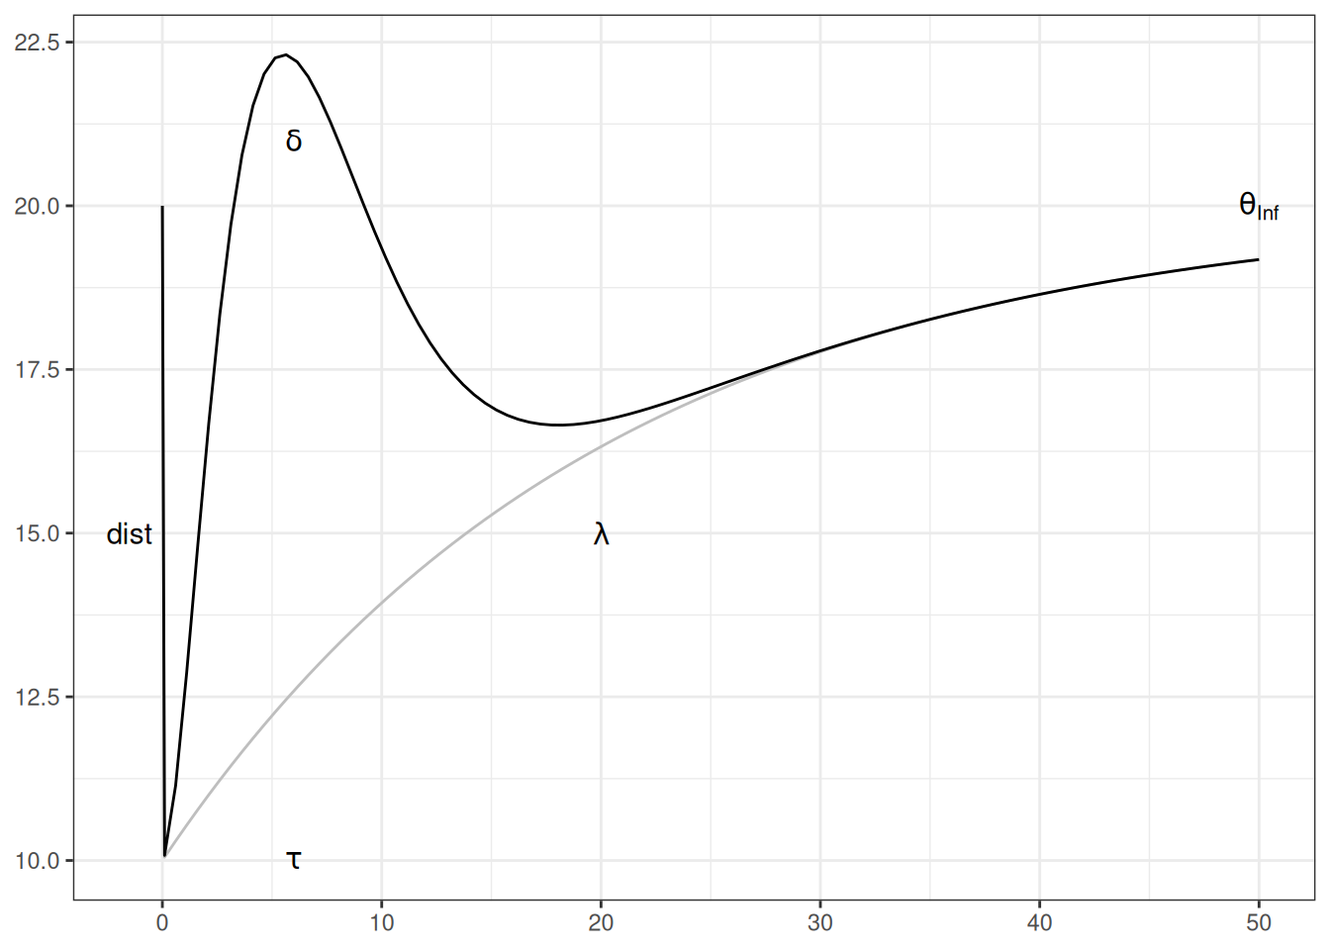
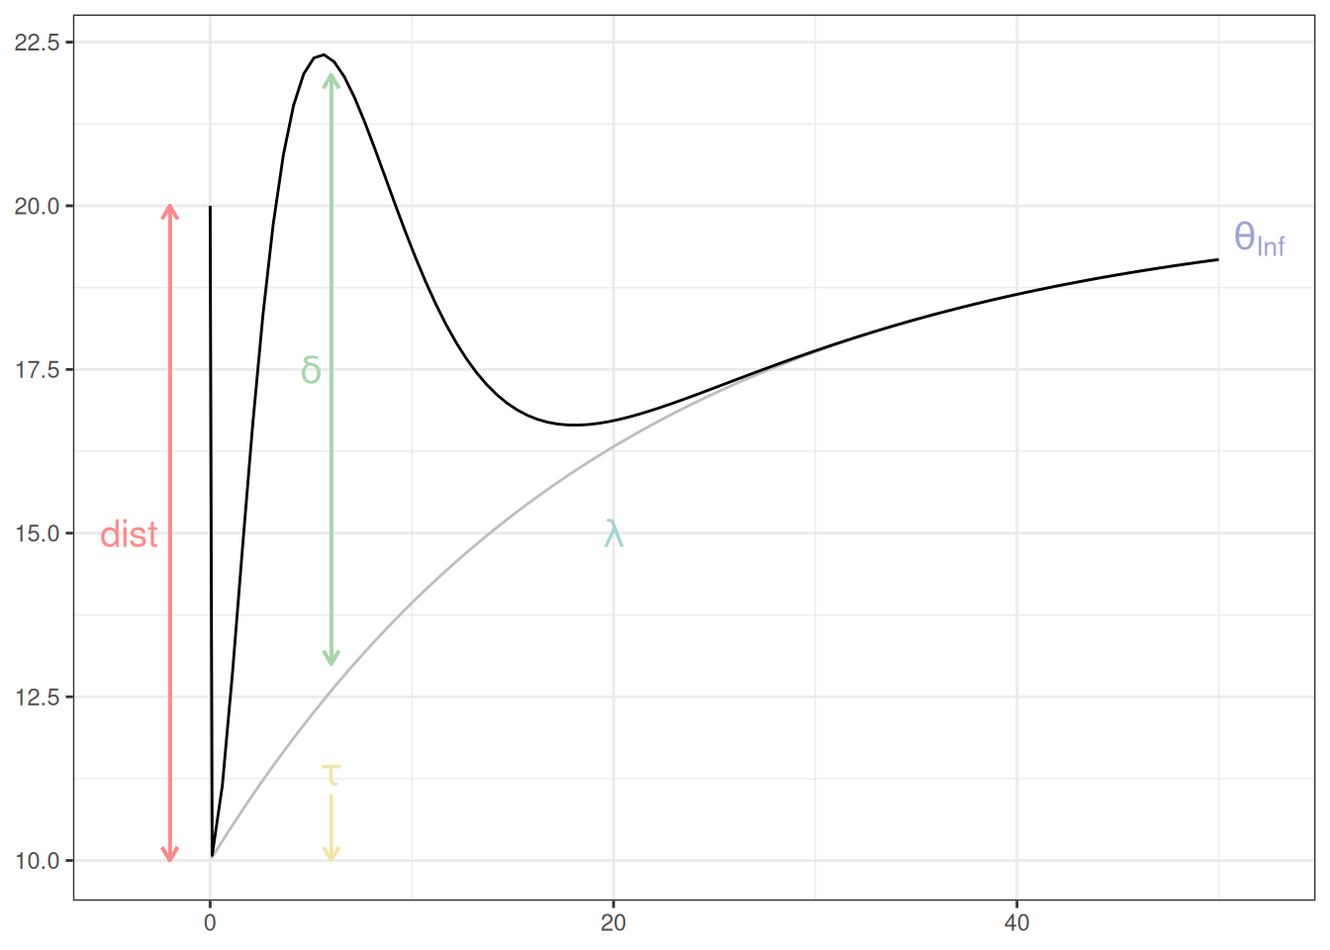
modelling 0.1.0.9016: models fig 2

diff --git a/docs/21_models.html b/docs/21_models.html
@@ -268,6 +268,41 @@ pre > code.sourceCode > span > a:first-child::before { text-decoration: underlin
 LTP = 1 - e^{-\lambda_p \times time}
 \end{align}
 \]</span></p>
+<div class="cell">
+<details>
+<summary>Code</summary>
+<div class="sourceCode cell-code" id="cb1"><pre class="sourceCode r code-with-copy"><code class="sourceCode r"><span id="cb1-1"><a href="#cb1-1" aria-hidden="true" tabindex="-1"></a>ltp <span class="ot">&lt;-</span> <span class="cf">function</span>(time, dist, thetainf, lambda) {</span>
+<span id="cb1-2"><a href="#cb1-2" aria-hidden="true" tabindex="-1"></a>  theta0 <span class="ot">&lt;-</span> thetainf <span class="sc">*</span> dist</span>
+<span id="cb1-3"><a href="#cb1-3" aria-hidden="true" tabindex="-1"></a>  ltp <span class="ot">&lt;-</span> <span class="dv">1</span> <span class="sc">-</span> <span class="fu">exp</span>(<span class="sc">-</span>lambda <span class="sc">*</span> time)</span>
+<span id="cb1-4"><a href="#cb1-4" aria-hidden="true" tabindex="-1"></a>  <span class="fu">return</span>(theta0 <span class="sc">+</span> (thetainf <span class="sc">-</span> theta0) <span class="sc">*</span> (ltp))</span>
+<span id="cb1-5"><a href="#cb1-5" aria-hidden="true" tabindex="-1"></a>}</span>
+<span id="cb1-6"><a href="#cb1-6" aria-hidden="true" tabindex="-1"></a><span class="fu">data.frame</span>(<span class="at">time =</span> <span class="fu">seq</span>(<span class="fl">0.1</span>, <span class="dv">50</span>, <span class="at">length.out =</span> <span class="dv">100</span>)) <span class="sc">%&gt;%</span></span>
+<span id="cb1-7"><a href="#cb1-7" aria-hidden="true" tabindex="-1"></a>  <span class="fu">mutate</span>(<span class="at">y_ltp =</span> <span class="fu">ltp</span>(time, <span class="at">dist =</span> <span class="fl">0.5</span>, <span class="at">thetainf =</span> <span class="dv">20</span>, <span class="at">lambda =</span> <span class="fl">0.05</span>)) <span class="sc">%&gt;%</span></span>
+<span id="cb1-8"><a href="#cb1-8" aria-hidden="true" tabindex="-1"></a>  <span class="fu">bind_rows</span>(<span class="fu">data.frame</span>(<span class="at">time =</span> <span class="dv">0</span>, <span class="at">y_stp =</span> <span class="dv">20</span>, <span class="at">y_ltp =</span> <span class="dv">20</span>)) <span class="sc">%&gt;%</span></span>
+<span id="cb1-9"><a href="#cb1-9" aria-hidden="true" tabindex="-1"></a>  <span class="fu">ggplot</span>(<span class="fu">aes</span>(time)) <span class="sc">+</span></span>
+<span id="cb1-10"><a href="#cb1-10" aria-hidden="true" tabindex="-1"></a>  <span class="fu">geom_line</span>(<span class="fu">aes</span>(<span class="at">y =</span> y_ltp)) <span class="sc">+</span></span>
+<span id="cb1-11"><a href="#cb1-11" aria-hidden="true" tabindex="-1"></a>  <span class="fu">theme_bw</span>() <span class="sc">+</span></span>
+<span id="cb1-12"><a href="#cb1-12" aria-hidden="true" tabindex="-1"></a>  <span class="fu">annotate</span>(<span class="st">"text"</span>, <span class="at">x =</span> <span class="dv">52</span>, <span class="at">y =</span> <span class="fl">19.5</span>, <span class="at">label =</span> <span class="st">"theta[Inf]"</span>, </span>
+<span id="cb1-13"><a href="#cb1-13" aria-hidden="true" tabindex="-1"></a>           <span class="at">col =</span> <span class="st">"#9ea1d4"</span>, <span class="at">parse =</span> <span class="cn">TRUE</span>, <span class="at">size =</span> <span class="dv">5</span>) <span class="sc">+</span></span>
+<span id="cb1-14"><a href="#cb1-14" aria-hidden="true" tabindex="-1"></a>  <span class="fu">annotate</span>(<span class="st">"text"</span>, <span class="at">x =</span> <span class="dv">20</span>, <span class="at">y =</span> <span class="dv">15</span>, <span class="at">label =</span> <span class="st">"lambda"</span>, </span>
+<span id="cb1-15"><a href="#cb1-15" aria-hidden="true" tabindex="-1"></a>           <span class="at">col =</span> <span class="st">"#a8d2d1"</span>, <span class="at">parse =</span> <span class="cn">TRUE</span>, <span class="at">size =</span> <span class="dv">5</span>) <span class="sc">+</span></span>
+<span id="cb1-16"><a href="#cb1-16" aria-hidden="true" tabindex="-1"></a>  <span class="fu">annotate</span>(<span class="st">"text"</span>, <span class="at">x =</span> <span class="sc">-</span><span class="dv">4</span>, <span class="at">y =</span> <span class="dv">15</span>, <span class="at">label =</span> <span class="st">"dist"</span>, </span>
+<span id="cb1-17"><a href="#cb1-17" aria-hidden="true" tabindex="-1"></a>           <span class="at">col =</span> <span class="st">"#fc8a8a"</span>, <span class="at">parse =</span> <span class="cn">TRUE</span>, <span class="at">size =</span> <span class="dv">5</span>) <span class="sc">+</span></span>
+<span id="cb1-18"><a href="#cb1-18" aria-hidden="true" tabindex="-1"></a>  <span class="fu">theme</span>(<span class="at">axis.title =</span> <span class="fu">element_blank</span>()) <span class="sc">+</span></span>
+<span id="cb1-19"><a href="#cb1-19" aria-hidden="true" tabindex="-1"></a>  <span class="fu">geom_segment</span>(<span class="fu">aes</span>(<span class="at">x =</span> <span class="sc">-</span><span class="dv">2</span>, <span class="at">y =</span> <span class="dv">10</span>, <span class="at">xend =</span> <span class="sc">-</span><span class="dv">2</span>, <span class="at">yend =</span> <span class="dv">20</span>), </span>
+<span id="cb1-20"><a href="#cb1-20" aria-hidden="true" tabindex="-1"></a>               <span class="at">arrow =</span> <span class="fu">arrow</span>(<span class="at">length =</span> <span class="fu">unit</span>(<span class="fl">0.2</span>, <span class="st">"cm"</span>)), <span class="at">col =</span> <span class="st">"#fc8a8a"</span>) <span class="sc">+</span></span>
+<span id="cb1-21"><a href="#cb1-21" aria-hidden="true" tabindex="-1"></a>  <span class="fu">geom_segment</span>(<span class="fu">aes</span>(<span class="at">x =</span> <span class="sc">-</span><span class="dv">2</span>, <span class="at">y =</span> <span class="dv">20</span>, <span class="at">xend =</span> <span class="sc">-</span><span class="dv">2</span>, <span class="at">yend =</span> <span class="dv">10</span>), </span>
+<span id="cb1-22"><a href="#cb1-22" aria-hidden="true" tabindex="-1"></a>               <span class="at">arrow =</span> <span class="fu">arrow</span>(<span class="at">length =</span> <span class="fu">unit</span>(<span class="fl">0.2</span>, <span class="st">"cm"</span>)), <span class="at">col =</span> <span class="st">"#fc8a8a"</span>)</span></code><button title="Copy to Clipboard" class="code-copy-button"><i class="bi"></i></button></pre></div>
+</details>
+<div class="cell-output-display">
+<div class="quarto-figure quarto-figure-center">
+<figure class="figure">
+<p><img src="21_models_files/figure-html/ltp_proj-1.png" class="img-fluid figure-img" width="672"></p>
+<figcaption class="figure-caption">LTP proj with pars.</figcaption>
+</figure>
+</div>
+</div>
+</div>
 </section>
 <section id="stp" class="level2">
 <h2 class="anchored" data-anchor-id="stp">STP</h2>
@@ -283,33 +318,43 @@ STP = \delta_p \times (\frac{time}{\tau_s} \times e^{1-\frac{time}{\tau_s}})^2 \
 <div class="cell">
 <details>
 <summary>Code</summary>
-<div class="sourceCode cell-code" id="cb1"><pre class="sourceCode r code-with-copy"><code class="sourceCode r"><span id="cb1-1"><a href="#cb1-1" aria-hidden="true" tabindex="-1"></a>ltp <span class="ot">&lt;-</span> <span class="cf">function</span>(time, dist, thetainf, lambda, tau, delta) {</span>
-<span id="cb1-2"><a href="#cb1-2" aria-hidden="true" tabindex="-1"></a>  theta0 <span class="ot">&lt;-</span> thetainf <span class="sc">*</span> dist</span>
-<span id="cb1-3"><a href="#cb1-3" aria-hidden="true" tabindex="-1"></a>  ltp <span class="ot">&lt;-</span> <span class="dv">1</span> <span class="sc">-</span> <span class="fu">exp</span>(<span class="sc">-</span>lambda <span class="sc">*</span> time)</span>
-<span id="cb1-4"><a href="#cb1-4" aria-hidden="true" tabindex="-1"></a>  <span class="fu">return</span>(theta0 <span class="sc">+</span> (thetainf <span class="sc">-</span> theta0) <span class="sc">*</span> (ltp))</span>
-<span id="cb1-5"><a href="#cb1-5" aria-hidden="true" tabindex="-1"></a>}</span>
-<span id="cb1-6"><a href="#cb1-6" aria-hidden="true" tabindex="-1"></a>stp <span class="ot">&lt;-</span> <span class="cf">function</span>(time, dist, thetainf, lambda, tau, delta) {</span>
-<span id="cb1-7"><a href="#cb1-7" aria-hidden="true" tabindex="-1"></a>  theta0 <span class="ot">&lt;-</span> thetainf <span class="sc">*</span> dist</span>
-<span id="cb1-8"><a href="#cb1-8" aria-hidden="true" tabindex="-1"></a>  ltp <span class="ot">&lt;-</span> <span class="dv">1</span> <span class="sc">-</span> <span class="fu">exp</span>(<span class="sc">-</span>lambda <span class="sc">*</span> time)</span>
-<span id="cb1-9"><a href="#cb1-9" aria-hidden="true" tabindex="-1"></a>  stp <span class="ot">&lt;-</span> delta <span class="sc">*</span> (time <span class="sc">/</span> tau <span class="sc">*</span> <span class="fu">exp</span>(<span class="dv">1</span> <span class="sc">-</span> time <span class="sc">/</span> tau))<span class="sc">^</span><span class="dv">2</span></span>
-<span id="cb1-10"><a href="#cb1-10" aria-hidden="true" tabindex="-1"></a>  <span class="fu">return</span>(theta0 <span class="sc">+</span> (thetainf <span class="sc">-</span> theta0) <span class="sc">*</span> (ltp <span class="sc">+</span> stp))</span>
-<span id="cb1-11"><a href="#cb1-11" aria-hidden="true" tabindex="-1"></a>}</span>
-<span id="cb1-12"><a href="#cb1-12" aria-hidden="true" tabindex="-1"></a><span class="fu">data.frame</span>(<span class="at">time =</span> <span class="fu">seq</span>(<span class="fl">0.1</span>, <span class="dv">50</span>, <span class="at">length.out =</span> <span class="dv">100</span>)) <span class="sc">%&gt;%</span></span>
-<span id="cb1-13"><a href="#cb1-13" aria-hidden="true" tabindex="-1"></a>  <span class="fu">mutate</span>(<span class="at">y_stp =</span> <span class="fu">stp</span>(time, <span class="at">dist =</span> <span class="fl">0.5</span>, <span class="at">thetainf =</span> <span class="dv">20</span>, <span class="at">lambda =</span> <span class="fl">0.05</span>, </span>
-<span id="cb1-14"><a href="#cb1-14" aria-hidden="true" tabindex="-1"></a>                 <span class="at">tau =</span> <span class="dv">5</span>, <span class="at">delta =</span> <span class="dv">1</span>)) <span class="sc">%&gt;%</span></span>
-<span id="cb1-15"><a href="#cb1-15" aria-hidden="true" tabindex="-1"></a>  <span class="fu">mutate</span>(<span class="at">y_ltp =</span> <span class="fu">ltp</span>(time, <span class="at">dist =</span> <span class="fl">0.5</span>, <span class="at">thetainf =</span> <span class="dv">20</span>, <span class="at">lambda =</span> <span class="fl">0.05</span>, </span>
-<span id="cb1-16"><a href="#cb1-16" aria-hidden="true" tabindex="-1"></a>                 <span class="at">tau =</span> <span class="dv">5</span>, <span class="at">delta =</span> <span class="dv">1</span>)) <span class="sc">%&gt;%</span></span>
-<span id="cb1-17"><a href="#cb1-17" aria-hidden="true" tabindex="-1"></a>  <span class="fu">bind_rows</span>(<span class="fu">data.frame</span>(<span class="at">time =</span> <span class="dv">0</span>, <span class="at">y_stp =</span> <span class="dv">20</span>, <span class="at">y_ltp =</span> <span class="dv">20</span>)) <span class="sc">%&gt;%</span> </span>
-<span id="cb1-18"><a href="#cb1-18" aria-hidden="true" tabindex="-1"></a>  <span class="fu">ggplot</span>(<span class="fu">aes</span>(time)) <span class="sc">+</span></span>
-<span id="cb1-19"><a href="#cb1-19" aria-hidden="true" tabindex="-1"></a>  <span class="fu">geom_line</span>(<span class="fu">aes</span>(<span class="at">y =</span> y_ltp), <span class="at">col =</span> <span class="st">"grey"</span>) <span class="sc">+</span></span>
-<span id="cb1-20"><a href="#cb1-20" aria-hidden="true" tabindex="-1"></a>  <span class="fu">geom_line</span>(<span class="fu">aes</span>(<span class="at">y =</span> y_stp)) <span class="sc">+</span></span>
-<span id="cb1-21"><a href="#cb1-21" aria-hidden="true" tabindex="-1"></a>  <span class="fu">theme_bw</span>() <span class="sc">+</span></span>
-<span id="cb1-22"><a href="#cb1-22" aria-hidden="true" tabindex="-1"></a>  <span class="fu">annotate</span>(<span class="st">"text"</span>, <span class="at">x =</span> <span class="dv">50</span>, <span class="at">y =</span> <span class="dv">20</span>, <span class="at">label =</span> <span class="st">"theta[Inf]"</span>, <span class="at">parse =</span> <span class="cn">TRUE</span>) <span class="sc">+</span></span>
-<span id="cb1-23"><a href="#cb1-23" aria-hidden="true" tabindex="-1"></a>  <span class="fu">annotate</span>(<span class="st">"text"</span>, <span class="at">x =</span> <span class="dv">20</span>, <span class="at">y =</span> <span class="dv">15</span>, <span class="at">label =</span> <span class="st">"lambda"</span>, <span class="at">parse =</span> <span class="cn">TRUE</span>) <span class="sc">+</span></span>
-<span id="cb1-24"><a href="#cb1-24" aria-hidden="true" tabindex="-1"></a>  <span class="fu">annotate</span>(<span class="st">"text"</span>, <span class="at">x =</span> <span class="sc">-</span><span class="fl">1.5</span>, <span class="at">y =</span> <span class="dv">15</span>, <span class="at">label =</span> <span class="st">"dist"</span>, <span class="at">parse =</span> <span class="cn">TRUE</span>) <span class="sc">+</span></span>
-<span id="cb1-25"><a href="#cb1-25" aria-hidden="true" tabindex="-1"></a>  <span class="fu">annotate</span>(<span class="st">"text"</span>, <span class="at">x =</span> <span class="dv">6</span>, <span class="at">y =</span> <span class="dv">10</span>, <span class="at">label =</span> <span class="st">"tau"</span>, <span class="at">parse =</span> <span class="cn">TRUE</span>) <span class="sc">+</span></span>
-<span id="cb1-26"><a href="#cb1-26" aria-hidden="true" tabindex="-1"></a>  <span class="fu">annotate</span>(<span class="st">"text"</span>, <span class="at">x =</span> <span class="dv">6</span>, <span class="at">y =</span> <span class="dv">21</span>, <span class="at">label =</span> <span class="st">"delta"</span>, <span class="at">parse =</span> <span class="cn">TRUE</span>) <span class="sc">+</span></span>
-<span id="cb1-27"><a href="#cb1-27" aria-hidden="true" tabindex="-1"></a>  <span class="fu">theme</span>(<span class="at">axis.title =</span> <span class="fu">element_blank</span>())</span></code><button title="Copy to Clipboard" class="code-copy-button"><i class="bi"></i></button></pre></div>
+<div class="sourceCode cell-code" id="cb2"><pre class="sourceCode r code-with-copy"><code class="sourceCode r"><span id="cb2-1"><a href="#cb2-1" aria-hidden="true" tabindex="-1"></a>stp <span class="ot">&lt;-</span> <span class="cf">function</span>(time, dist, thetainf, lambda, tau, delta) {</span>
+<span id="cb2-2"><a href="#cb2-2" aria-hidden="true" tabindex="-1"></a>  theta0 <span class="ot">&lt;-</span> thetainf <span class="sc">*</span> dist</span>
+<span id="cb2-3"><a href="#cb2-3" aria-hidden="true" tabindex="-1"></a>  ltp <span class="ot">&lt;-</span> <span class="dv">1</span> <span class="sc">-</span> <span class="fu">exp</span>(<span class="sc">-</span>lambda <span class="sc">*</span> time)</span>
+<span id="cb2-4"><a href="#cb2-4" aria-hidden="true" tabindex="-1"></a>  stp <span class="ot">&lt;-</span> delta <span class="sc">*</span> (time <span class="sc">/</span> tau <span class="sc">*</span> <span class="fu">exp</span>(<span class="dv">1</span> <span class="sc">-</span> time <span class="sc">/</span> tau))<span class="sc">^</span><span class="dv">2</span></span>
+<span id="cb2-5"><a href="#cb2-5" aria-hidden="true" tabindex="-1"></a>  <span class="fu">return</span>(theta0 <span class="sc">+</span> (thetainf <span class="sc">-</span> theta0) <span class="sc">*</span> (ltp <span class="sc">+</span> stp))</span>
+<span id="cb2-6"><a href="#cb2-6" aria-hidden="true" tabindex="-1"></a>}</span>
+<span id="cb2-7"><a href="#cb2-7" aria-hidden="true" tabindex="-1"></a><span class="fu">data.frame</span>(<span class="at">time =</span> <span class="fu">seq</span>(<span class="fl">0.1</span>, <span class="dv">50</span>, <span class="at">length.out =</span> <span class="dv">100</span>)) <span class="sc">%&gt;%</span></span>
+<span id="cb2-8"><a href="#cb2-8" aria-hidden="true" tabindex="-1"></a>  <span class="fu">mutate</span>(<span class="at">y_stp =</span> <span class="fu">stp</span>(time, <span class="at">dist =</span> <span class="fl">0.5</span>, <span class="at">thetainf =</span> <span class="dv">20</span>, <span class="at">lambda =</span> <span class="fl">0.05</span>,</span>
+<span id="cb2-9"><a href="#cb2-9" aria-hidden="true" tabindex="-1"></a>                     <span class="at">tau =</span> <span class="dv">5</span>, <span class="at">delta =</span> <span class="dv">1</span>)) <span class="sc">%&gt;%</span></span>
+<span id="cb2-10"><a href="#cb2-10" aria-hidden="true" tabindex="-1"></a>  <span class="fu">mutate</span>(<span class="at">y_ltp =</span> <span class="fu">ltp</span>(time, <span class="at">dist =</span> <span class="fl">0.5</span>, <span class="at">thetainf =</span> <span class="dv">20</span>, <span class="at">lambda =</span> <span class="fl">0.05</span>)) <span class="sc">%&gt;%</span></span>
+<span id="cb2-11"><a href="#cb2-11" aria-hidden="true" tabindex="-1"></a>  <span class="fu">bind_rows</span>(<span class="fu">data.frame</span>(<span class="at">time =</span> <span class="dv">0</span>, <span class="at">y_stp =</span> <span class="dv">20</span>, <span class="at">y_ltp =</span> <span class="dv">20</span>)) <span class="sc">%&gt;%</span></span>
+<span id="cb2-12"><a href="#cb2-12" aria-hidden="true" tabindex="-1"></a>  <span class="fu">ggplot</span>(<span class="fu">aes</span>(time)) <span class="sc">+</span></span>
+<span id="cb2-13"><a href="#cb2-13" aria-hidden="true" tabindex="-1"></a>  <span class="fu">geom_line</span>(<span class="fu">aes</span>(<span class="at">y =</span> y_ltp), <span class="at">col =</span> <span class="st">"grey"</span>) <span class="sc">+</span></span>
+<span id="cb2-14"><a href="#cb2-14" aria-hidden="true" tabindex="-1"></a>  <span class="fu">geom_line</span>(<span class="fu">aes</span>(<span class="at">y =</span> y_stp)) <span class="sc">+</span></span>
+<span id="cb2-15"><a href="#cb2-15" aria-hidden="true" tabindex="-1"></a>  <span class="fu">theme_bw</span>() <span class="sc">+</span></span>
+<span id="cb2-16"><a href="#cb2-16" aria-hidden="true" tabindex="-1"></a>  <span class="fu">annotate</span>(<span class="st">"text"</span>, <span class="at">x =</span> <span class="dv">52</span>, <span class="at">y =</span> <span class="fl">19.5</span>, <span class="at">label =</span> <span class="st">"theta[Inf]"</span>, </span>
+<span id="cb2-17"><a href="#cb2-17" aria-hidden="true" tabindex="-1"></a>           <span class="at">col =</span> <span class="st">"#9ea1d4"</span>, <span class="at">parse =</span> <span class="cn">TRUE</span>, <span class="at">size =</span> <span class="dv">5</span>) <span class="sc">+</span></span>
+<span id="cb2-18"><a href="#cb2-18" aria-hidden="true" tabindex="-1"></a>  <span class="fu">annotate</span>(<span class="st">"text"</span>, <span class="at">x =</span> <span class="dv">20</span>, <span class="at">y =</span> <span class="dv">15</span>, <span class="at">label =</span> <span class="st">"lambda"</span>, </span>
+<span id="cb2-19"><a href="#cb2-19" aria-hidden="true" tabindex="-1"></a>           <span class="at">col =</span> <span class="st">"#a8d2d1"</span>, <span class="at">parse =</span> <span class="cn">TRUE</span>, <span class="at">size =</span> <span class="dv">5</span>) <span class="sc">+</span></span>
+<span id="cb2-20"><a href="#cb2-20" aria-hidden="true" tabindex="-1"></a>  <span class="fu">annotate</span>(<span class="st">"text"</span>, <span class="at">x =</span> <span class="sc">-</span><span class="dv">4</span>, <span class="at">y =</span> <span class="dv">15</span>, <span class="at">label =</span> <span class="st">"dist"</span>, </span>
+<span id="cb2-21"><a href="#cb2-21" aria-hidden="true" tabindex="-1"></a>           <span class="at">col =</span> <span class="st">"#fc8a8a"</span>, <span class="at">parse =</span> <span class="cn">TRUE</span>, <span class="at">size =</span> <span class="dv">5</span>) <span class="sc">+</span></span>
+<span id="cb2-22"><a href="#cb2-22" aria-hidden="true" tabindex="-1"></a>  <span class="fu">theme</span>(<span class="at">axis.title =</span> <span class="fu">element_blank</span>()) <span class="sc">+</span></span>
+<span id="cb2-23"><a href="#cb2-23" aria-hidden="true" tabindex="-1"></a>  <span class="fu">geom_segment</span>(<span class="fu">aes</span>(<span class="at">x =</span> <span class="sc">-</span><span class="dv">2</span>, <span class="at">y =</span> <span class="dv">10</span>, <span class="at">xend =</span> <span class="sc">-</span><span class="dv">2</span>, <span class="at">yend =</span> <span class="dv">20</span>), </span>
+<span id="cb2-24"><a href="#cb2-24" aria-hidden="true" tabindex="-1"></a>               <span class="at">arrow =</span> <span class="fu">arrow</span>(<span class="at">length =</span> <span class="fu">unit</span>(<span class="fl">0.2</span>, <span class="st">"cm"</span>)), <span class="at">col =</span> <span class="st">"#fc8a8a"</span>) <span class="sc">+</span></span>
+<span id="cb2-25"><a href="#cb2-25" aria-hidden="true" tabindex="-1"></a>  <span class="fu">geom_segment</span>(<span class="fu">aes</span>(<span class="at">x =</span> <span class="sc">-</span><span class="dv">2</span>, <span class="at">y =</span> <span class="dv">20</span>, <span class="at">xend =</span> <span class="sc">-</span><span class="dv">2</span>, <span class="at">yend =</span> <span class="dv">10</span>), </span>
+<span id="cb2-26"><a href="#cb2-26" aria-hidden="true" tabindex="-1"></a>               <span class="at">arrow =</span> <span class="fu">arrow</span>(<span class="at">length =</span> <span class="fu">unit</span>(<span class="fl">0.2</span>, <span class="st">"cm"</span>)), <span class="at">col =</span> <span class="st">"#fc8a8a"</span>) <span class="sc">+</span></span>
+<span id="cb2-27"><a href="#cb2-27" aria-hidden="true" tabindex="-1"></a>  <span class="fu">annotate</span>(<span class="st">"text"</span>, <span class="at">x =</span> <span class="dv">6</span>, <span class="at">y =</span> <span class="fl">11.3</span>, <span class="at">label =</span> <span class="st">"tau"</span>, </span>
+<span id="cb2-28"><a href="#cb2-28" aria-hidden="true" tabindex="-1"></a>           <span class="at">col =</span> <span class="st">"#f2e5a9"</span>, <span class="at">parse =</span> <span class="cn">TRUE</span>, <span class="at">size =</span> <span class="dv">5</span>) <span class="sc">+</span></span>
+<span id="cb2-29"><a href="#cb2-29" aria-hidden="true" tabindex="-1"></a>  <span class="fu">annotate</span>(<span class="st">"text"</span>, <span class="at">x =</span> <span class="dv">5</span>, <span class="at">y =</span> <span class="fl">17.5</span>, <span class="at">label =</span> <span class="st">"delta"</span>, </span>
+<span id="cb2-30"><a href="#cb2-30" aria-hidden="true" tabindex="-1"></a>           <span class="at">col =</span> <span class="st">"#a7d6ac"</span>, <span class="at">parse =</span> <span class="cn">TRUE</span>, <span class="at">size =</span> <span class="dv">5</span>) <span class="sc">+</span></span>
+<span id="cb2-31"><a href="#cb2-31" aria-hidden="true" tabindex="-1"></a>  <span class="fu">geom_segment</span>(<span class="fu">aes</span>(<span class="at">x =</span> <span class="dv">6</span>, <span class="at">y =</span> <span class="dv">13</span>, <span class="at">xend =</span> <span class="dv">6</span>, <span class="at">yend =</span> <span class="dv">22</span>), </span>
+<span id="cb2-32"><a href="#cb2-32" aria-hidden="true" tabindex="-1"></a>               <span class="at">arrow =</span> <span class="fu">arrow</span>(<span class="at">length =</span> <span class="fu">unit</span>(<span class="fl">0.2</span>, <span class="st">"cm"</span>)), <span class="at">col =</span> <span class="st">"#a7d6ac"</span>) <span class="sc">+</span></span>
+<span id="cb2-33"><a href="#cb2-33" aria-hidden="true" tabindex="-1"></a>  <span class="fu">geom_segment</span>(<span class="fu">aes</span>(<span class="at">x =</span> <span class="dv">6</span>, <span class="at">y =</span> <span class="dv">22</span>, <span class="at">xend =</span> <span class="dv">6</span>, <span class="at">yend =</span> <span class="dv">13</span>), </span>
+<span id="cb2-34"><a href="#cb2-34" aria-hidden="true" tabindex="-1"></a>               <span class="at">arrow =</span> <span class="fu">arrow</span>(<span class="at">length =</span> <span class="fu">unit</span>(<span class="fl">0.2</span>, <span class="st">"cm"</span>)), <span class="at">col =</span> <span class="st">"#a7d6ac"</span>) <span class="sc">+</span></span>
+<span id="cb2-35"><a href="#cb2-35" aria-hidden="true" tabindex="-1"></a>  <span class="fu">geom_segment</span>(<span class="fu">aes</span>(<span class="at">x =</span> <span class="dv">6</span>, <span class="at">y =</span> <span class="dv">11</span>, <span class="at">xend =</span> <span class="dv">6</span>, <span class="at">yend =</span> <span class="dv">10</span>), </span>
+<span id="cb2-36"><a href="#cb2-36" aria-hidden="true" tabindex="-1"></a>               <span class="at">arrow =</span> <span class="fu">arrow</span>(<span class="at">length =</span> <span class="fu">unit</span>(<span class="fl">0.2</span>, <span class="st">"cm"</span>)), <span class="at">col =</span> <span class="st">"#f2e5a9"</span>) <span class="sc">+</span></span>
+<span id="cb2-37"><a href="#cb2-37" aria-hidden="true" tabindex="-1"></a>  <span class="fu">theme</span>(<span class="at">axis.title =</span> <span class="fu">element_blank</span>())</span></code><button title="Copy to Clipboard" class="code-copy-button"><i class="bi"></i></button></pre></div>
 </details>
 <div class="cell-output-display">
 <div class="quarto-figure quarto-figure-center">

diff --git a/NEWS.md b/NEWS.md
@@ -1,3 +1,4 @@
+-   modelling 0.1.0.9016: models fig 2
 -   modelling 0.1.0.9015: stp model fig
 -   modelling 0.1.0.9014: fdiv, div_q1_gen, agb_mort
 -   modelling 0.1.0.9013: nstem, wd, agb cleaned before others
